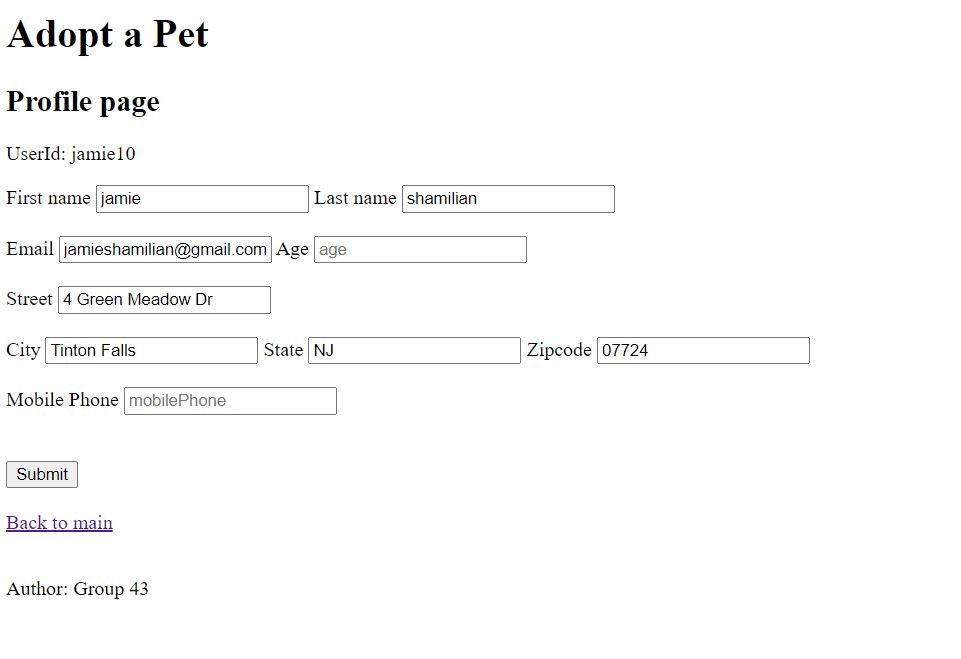
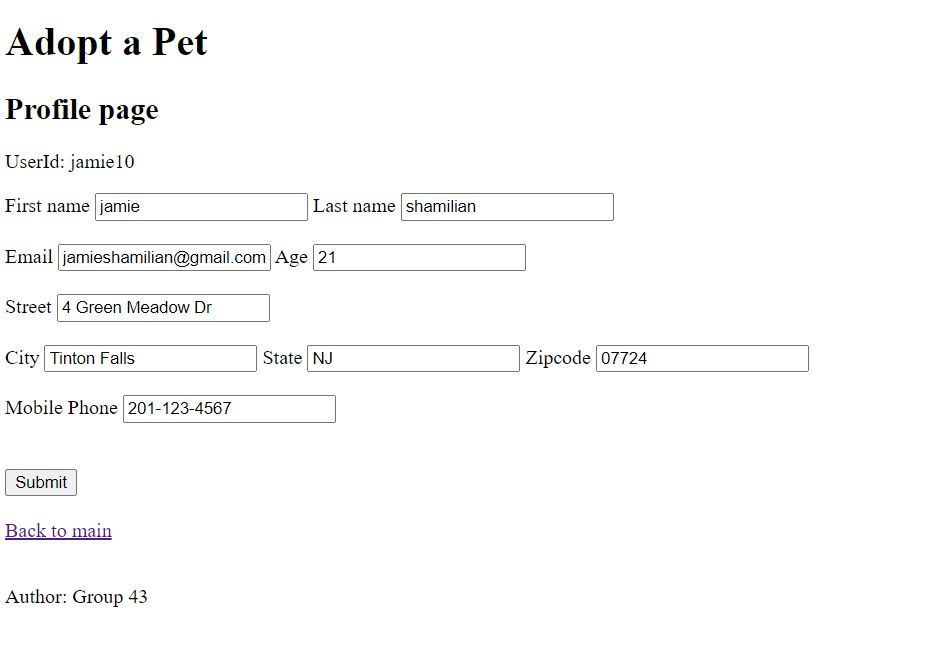
fixed age and mobilePhone first add a Pet page updated profile page image

diff --git a/alpha/data/users.js b/alpha/data/users.js
@@ -184,7 +184,8 @@ async function getUser(userId) {
       firstName: 1,
       lastName: 1,
       email: 1  ,
-      mobilephone: 1  ,
+      age: 1,
+      mobilePhone: 1  ,
       streetAddress: 1  ,
       city: 1 ,
       state: 1  ,
@@ -220,7 +221,7 @@ async function getUser(userId) {
     firstName: userMatch.firstName  ,
     lastName:userMatch.lastName  ,
     email:userMatch.email  ,
-    mobilephone:userMatch.mobilephone  ,
+    mobilePhone:userMatch.mobilePhone  ,
     streetAddress:userMatch.streetAddress  ,
     city:userMatch.city  ,
     state:userMatch.state  ,
@@ -245,15 +246,6 @@ async function createUser(userId, passWord) {
   if (checkuserId(userId) == true) throw "Name in Use Already";
 
   let hashPass = await bcrypt.hash(passWord, salt);
-  /*
-  let newUser = {};
-  newUser.userId = userId;
-  newUser.password = hashPass;
-  newUser.clear = passWord;
-  newUser._id = "0";
-
-  usersArray.push(newUser);
-  */
 
   const newUserDb = {
     userId: userId,

diff --git a/alpha/routes/profile.js b/alpha/routes/profile.js
@@ -36,11 +36,6 @@ router.get('/',  async (req, res) => {
     logDebug(" return user info ");
     logDebug(rtn);
 
-    let update = { 
-        userId: user, 
-    
-        error1: errorMsg 
-    };
     res.status(200).render('../views/pages/profile', rtn );
    // res.status(200).render('../views/pages/profile', { userId: user, error1: errorMsg });
 
